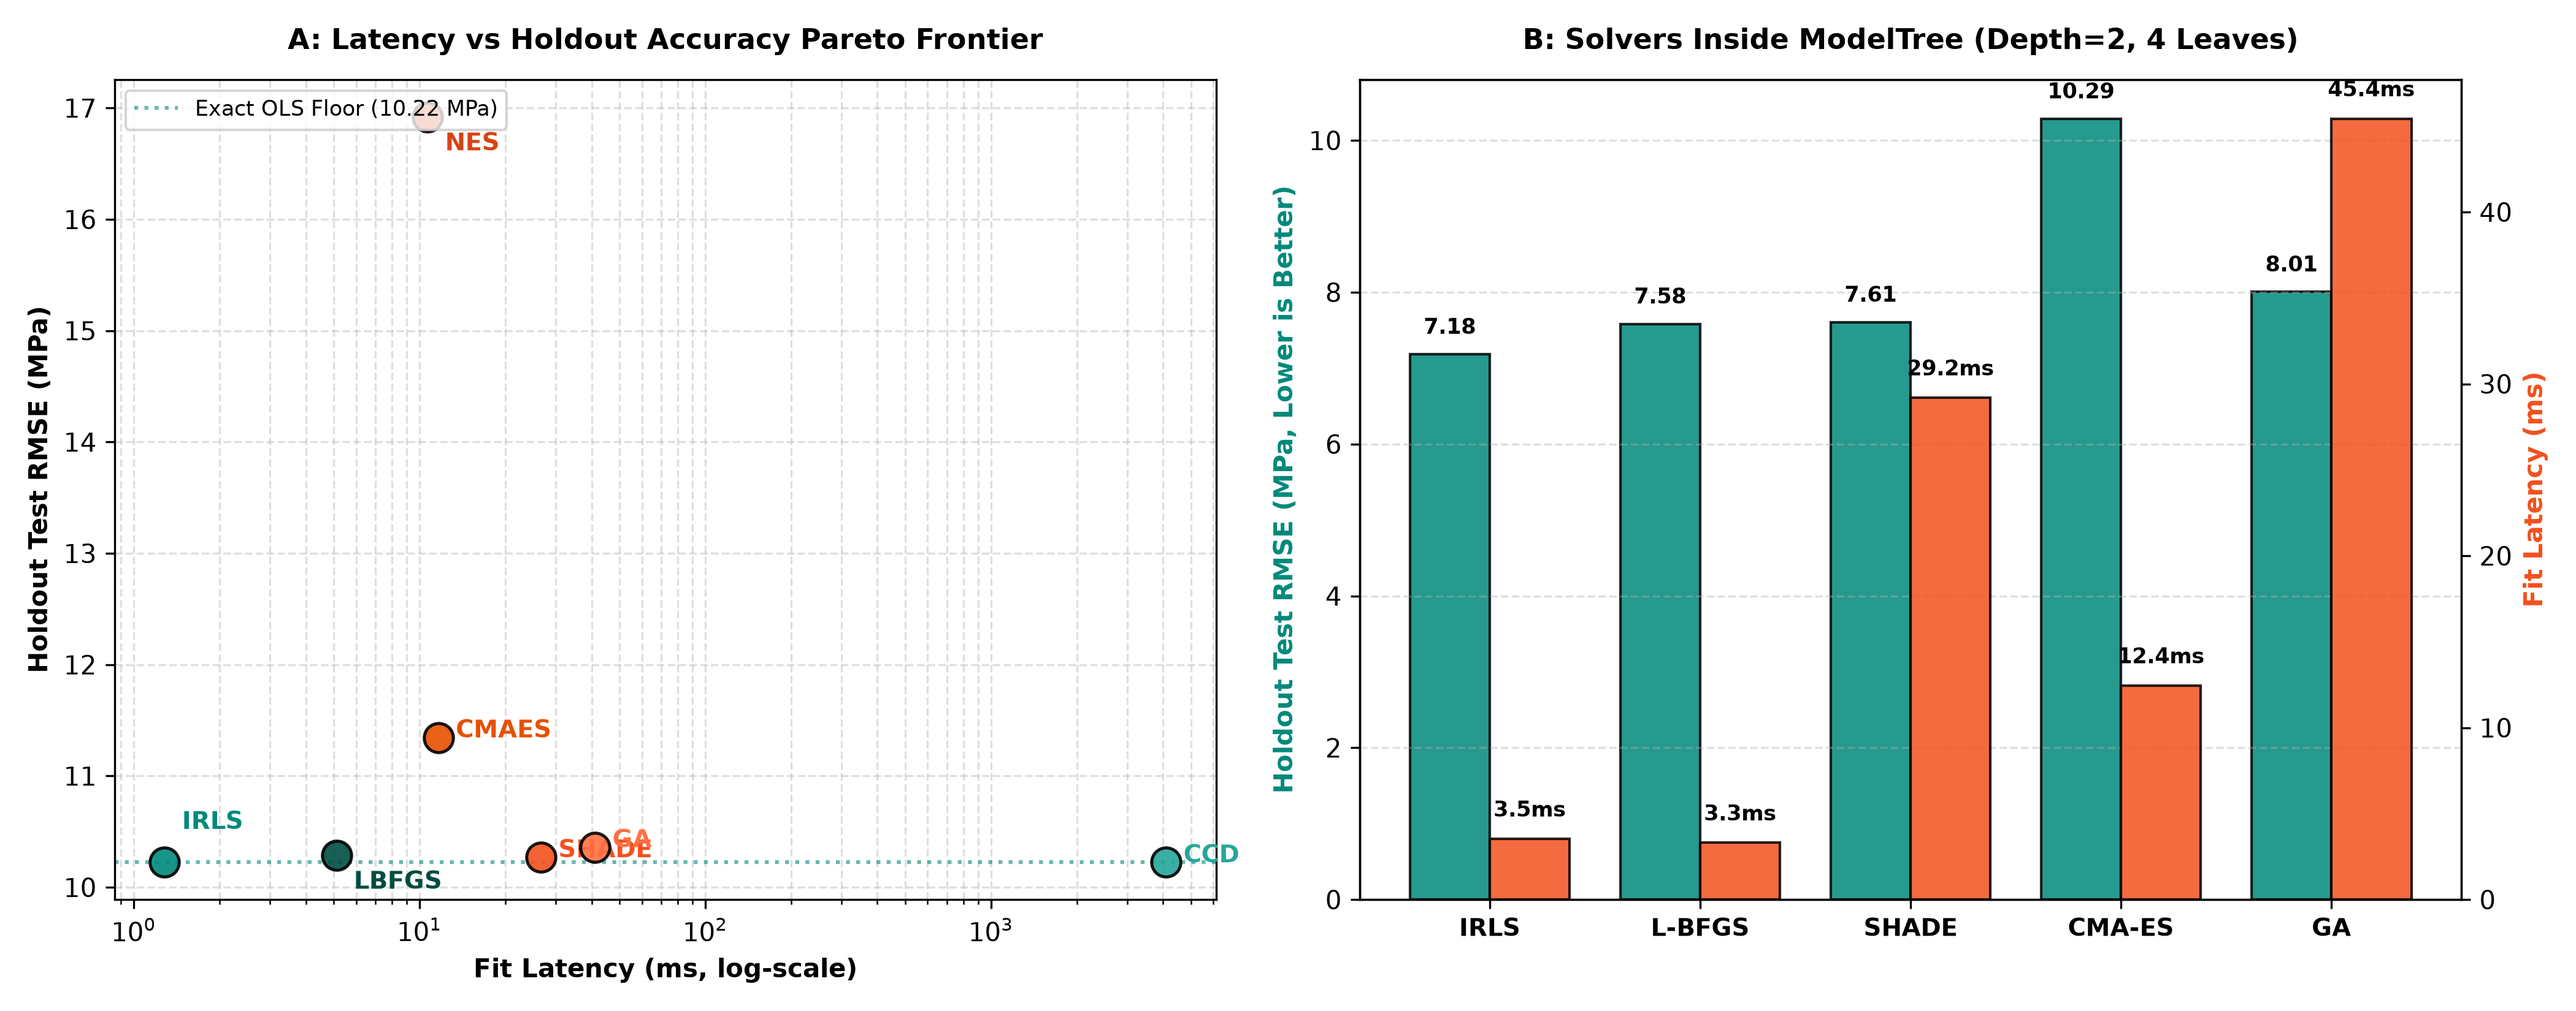
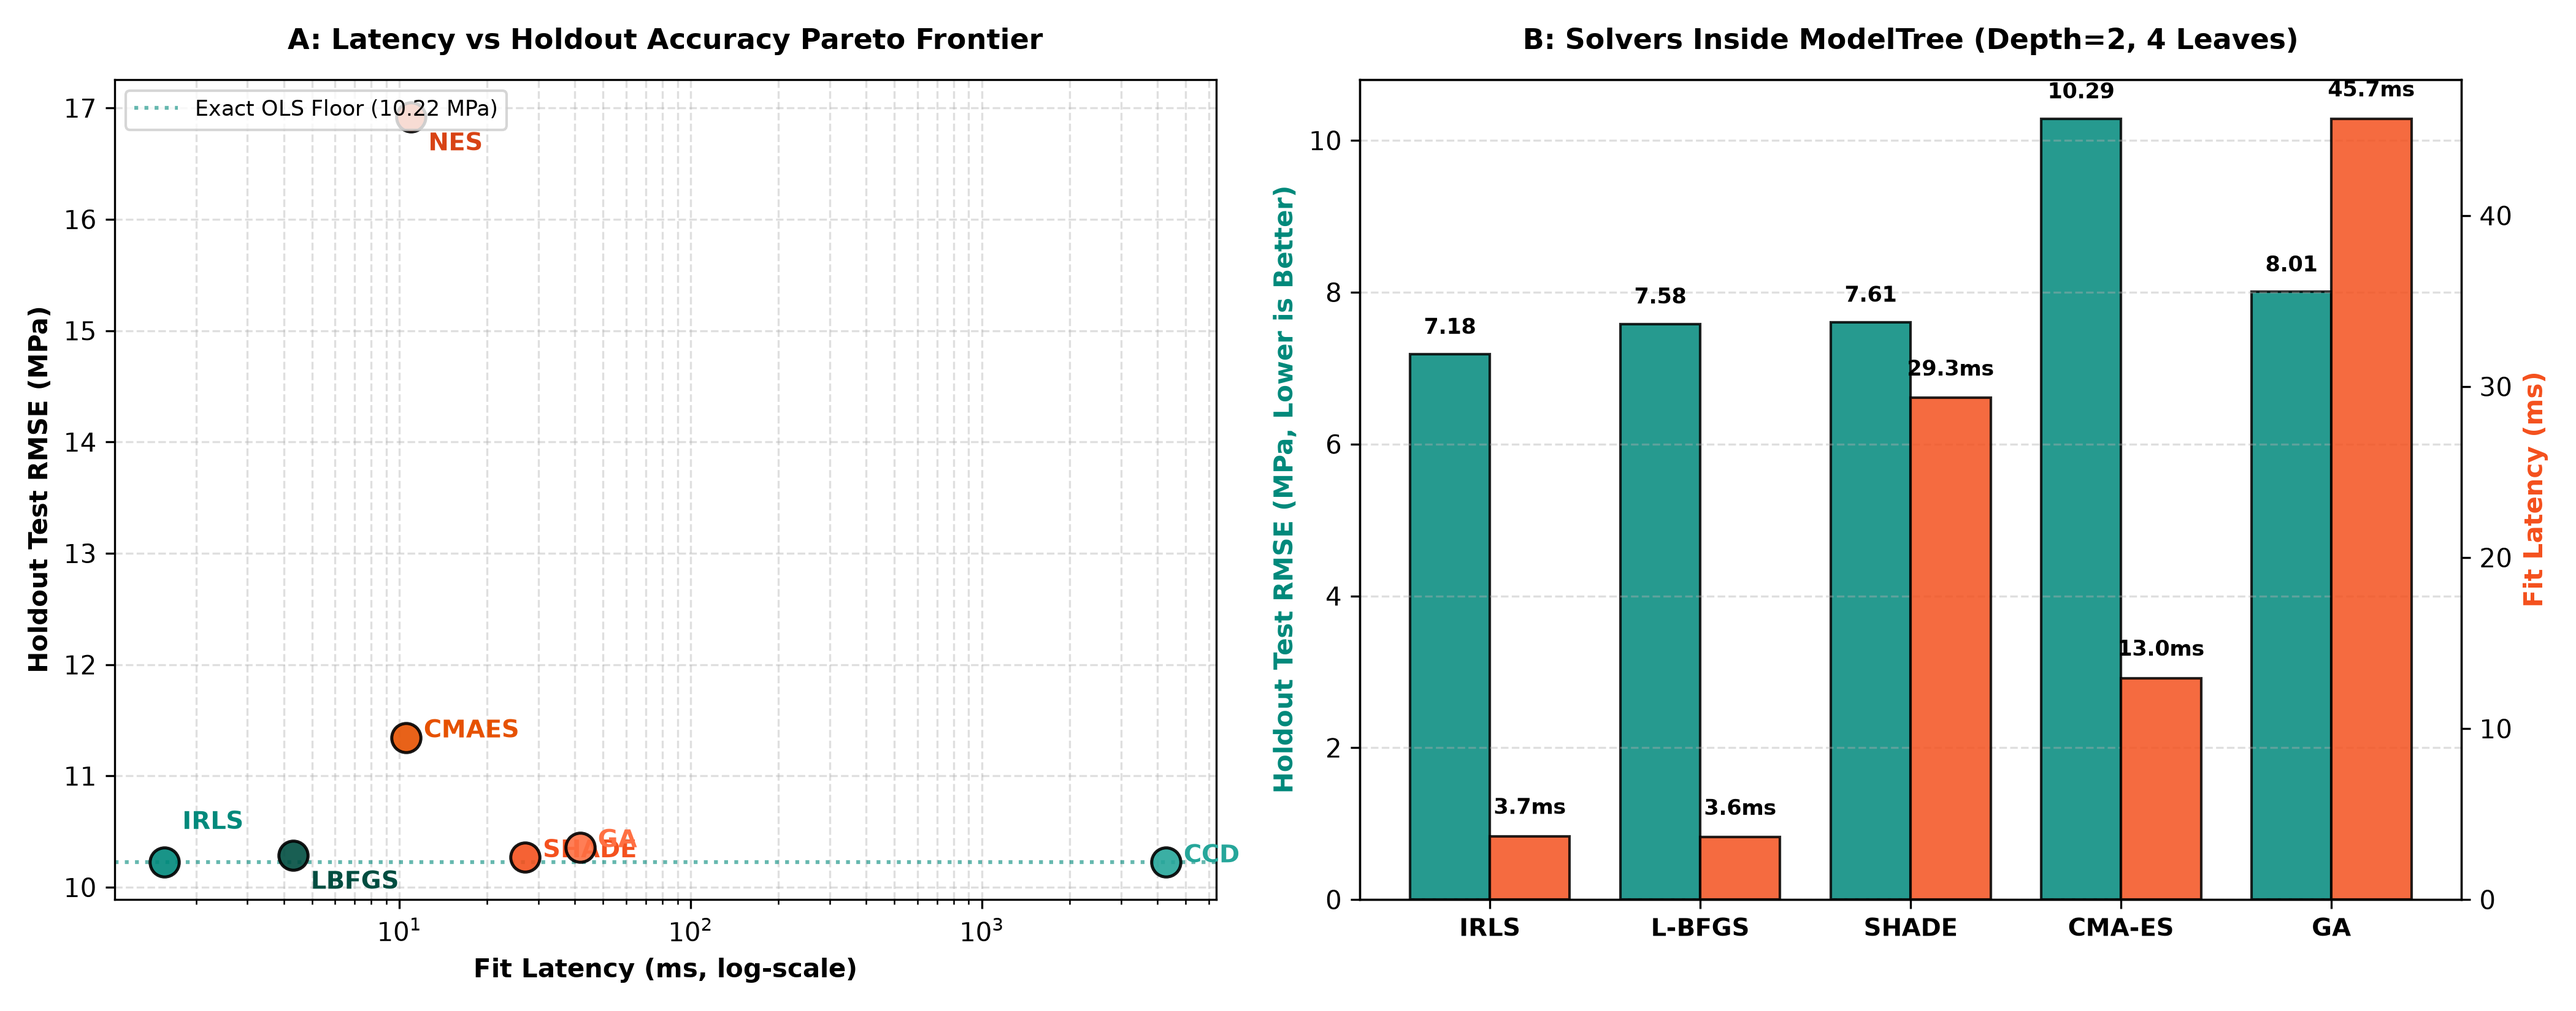
docs: reduce mermaid diagram height, add suite orchestrator, and link guides

diff --git a/docs/assets/custom.css b/docs/assets/custom.css
@@ -1,0 +1,18 @@
+/* Custom documentation stylesheet */
+
+/* Constrain Mermaid diagram height, enable horizontal scrolling if needed, and center */
+.mermaid {
+  text-align: center;
+  margin: 1.25rem 0;
+  overflow-x: auto;
+  overflow-y: hidden;
+}
+
+.mermaid svg {
+  max-height: 360px !important;
+  height: auto !important;
+  width: auto !important;
+  max-width: 100% !important;
+  display: block;
+  margin: 0 auto;
+}

diff --git a/examples/suites/run_all.py b/examples/suites/run_all.py
@@ -1,0 +1,87 @@
+"""Run all 11 mltreelib core benchmark suites.
+
+Executes each suite sequentially and reports status, latency, and assets generated.
+Usage:
+    uv run python examples/suites/run_all.py
+"""
+
+import os
+import sys
+import time
+import subprocess
+from pathlib import Path
+
+
+SUITES = [
+    ("Suite 1", "Core Tree Architecture", "core_tree_architecture.py"),
+    ("Suite 2", "Structural Constraints & Honesty", "constraints_and_honesty.py"),
+    ("Suite 3", "Missing Data Routing", "missing_routing_benchmark.py"),
+    ("Suite 4", "Distributional & Censored Leaves", "distributional_leaf_benchmarks.py"),
+    ("Suite 5", "Hierarchical Leaf Retrain", "stump_leaf_retrain.py"),
+    ("Suite 6", "Statistical & Metric Splitting", "statistical_and_metric_splitting.py"),
+    ("Suite 7", "Time Series Forecasting", "timeseries_additive_forecasting.py"),
+    ("Suite 8", "Unsupervised Trees & Anomalies", "unsupervised_trees.py"),
+    ("Suite 9", "Survival & Competing Risks", "survival_and_competing_risks.py"),
+    ("Suite 10", "Solvers & Optimizers", "solver_benchmarks.py"),
+    ("Suite 11", "Component & Factor Analysis", "component_benchmarks.py"),
+]
+
+
+def main():
+    root_dir = Path(__file__).resolve().parent.parent.parent
+    suites_dir = root_dir / "examples" / "suites"
+
+    print("=" * 80)
+    print("mltreelib Core Benchmark Suite Orchestrator")
+    print(f"Running 11 benchmark suites sequentially from {suites_dir}")
+    print("=" * 80)
+
+    results = []
+    t_start_total = time.perf_counter()
+
+    for suite_id, title, filename in SUITES:
+        script_path = suites_dir / filename
+        if not script_path.exists():
+            print(f"[MISSING] {suite_id}: {filename} not found!")
+            results.append((suite_id, title, "MISSING", 0.0))
+            continue
+
+        print(f"\n>>> Running {suite_id}: {title} ({filename})...")
+        t0 = time.perf_counter()
+        res = subprocess.run(
+            [sys.executable, str(script_path)],
+            cwd=str(root_dir),
+            capture_output=True,
+            text=True,
+        )
+        elapsed = time.perf_counter() - t0
+
+        if res.returncode == 0:
+            print(f"    [PASSED] in {elapsed:.2f}s")
+            results.append((suite_id, title, "PASSED", elapsed))
+        else:
+            print(f"    [FAILED] with exit code {res.returncode} in {elapsed:.2f}s")
+            print("--- STDERR ---")
+            print(res.stderr[-500:] if len(res.stderr) > 500 else res.stderr)
+            results.append((suite_id, title, "FAILED", elapsed))
+
+    total_time = time.perf_counter() - t_start_total
+
+    print("\n" + "=" * 80)
+    print("BENCHMARK SUITE EXECUTION SUMMARY")
+    print("=" * 80)
+    print(f"{'Suite':<10} | {'Title':<35} | {'Status':<8} | {'Time (s)':>10}")
+    print("-" * 80)
+    for suite_id, title, status, elapsed in results:
+        print(f"{suite_id:<10} | {title:<35} | {status:<8} | {elapsed:>10.2f}s")
+    print("-" * 80)
+    passed_count = sum(1 for _, _, s, _ in results if s == "PASSED")
+    print(f"Total: {passed_count}/{len(SUITES)} passed in {total_time:.2f}s")
+    print("=" * 80)
+
+    if passed_count < len(SUITES):
+        sys.exit(1)
+
+
+if __name__ == "__main__":
+    main()

diff --git a/docs/examples/piecewise-linear-model-trees-vs-gbdt.md b/docs/examples/piecewise-linear-model-trees-vs-gbdt.md
@@ -66,4 +66,9 @@ This experiment compares two leaf types at the same depth and support setting. A
 uv run python examples/real_tree_studies.py diamonds
 ```
 
+!!! tip "Deep-Dive Benchmark Suites"
+    - For detailed depth-vs-error benchmarks on Yeh Concrete demonstrating 49.9% error reduction over CART step functions at depth 1, see [Suite 1: Core Tree Architecture & Growth Knobs](core-tree-architecture.md).
+    - For dual monotone split and slope enforcement without gradient boosting step-staircasing, see [Suite 2: Structural Constraints & Honest Inference](constraints-and-honesty.md).
+    - For numerical solver benchmarks (Cholesky vs L-BFGS vs Evolutionary leaf optimizers), see [Suite 10: Solvers, Optimizers & Real-Data Tuning](solver-benchmarks.md).
+
 For the origin of model trees, see [Quinlan, Learning with Continuous Classes (1992)](https://www.cs.tufts.edu/~nr/cs257/archive/ross-quinlan/continuous.pdf). For a controlled missing-data check and a separate real explanation, see the [regression pathway](../guides/regression.md).

diff --git a/docs/examples/distributional-trees-tweedie-tobit.md b/docs/examples/distributional-trees-tweedie-tobit.md
@@ -70,4 +70,8 @@ A zero claim, a reading floored by a sensor and an event censored by study end r
 uv run python examples/real_tree_studies.py housing
 ```
 
+!!! tip "Deep-Dive Benchmark Suites"
+    - For formal log-likelihoods, inverse Mills ratio derivations, and 45.8% OLS attenuation correction across Gamma, Poisson, and Tobit censored leaves, see [Suite 4: Distributional & Censored Leaf Families](distributional-leaves.md).
+    - For 12 exotic statistical hypothesis tests, MMD, Energy Distance, and Wasserstein optimal transport splitting, see [Suite 6: Statistical, Metric & Oblique Splitting Criteria](statistical-and-metric-splitting.md).
+
 See the [split criteria example](../examples/distributional-split-criteria.md) for controlled cases and the [FLCHAIN survival pathway](../guides/survival.md) for censored follow-up. For a primary reference on Tweedie modeling, see [Dunn and Smyth (2005)](https://doi.org/10.1007/s11222-005-4070-y).

diff --git a/docs/examples/quinlan-m5-cubist-rust.md b/docs/examples/quinlan-m5-cubist-rust.md
@@ -57,4 +57,8 @@ Record the feature name, input unit, threshold, missing direction, leaf support 
 uv run python examples/real_tree_studies.py concrete
 ```
 
+!!! tip "Deep-Dive Benchmark Suites"
+    - For exact mathematical formulation of the two-control decoupling architecture and Chow structural break gating, see [Suite 1: Core Tree Architecture & Growth Knobs](core-tree-architecture.md).
+    - For sub-millisecond warm-start leaf retraining and micro-model routing down frozen tree topologies, see [Suite 5: Dynamic Leaf Retraining & Adaptation](hierarchical-retrain.md).
+
 See [Quinlan's M5 paper](https://www.cs.tufts.edu/~nr/cs257/archive/ross-quinlan/continuous.pdf), [Kuhn's Cubist vignette](https://cran.r-project.org/web/packages/Cubist/vignettes/cubist.html) and the [rules and neighbor adjustment example](../examples/rules-summary-knn.md).

diff --git a/docs/blog/zero-imputation-predictive-maintenance.md b/docs/blog/zero-imputation-predictive-maintenance.md
@@ -34,7 +34,7 @@ uv run python examples/predictive_maintenance.py
 In commercial fleet management, missing an air pressure system failure on the highway causes catastrophic delays, towing fees, and potential engine destruction. Conversely, sending a healthy truck to the depot for a quick pressure test incurs a minor mechanic inspection charge.
 
 ```mermaid
-flowchart TD
+flowchart LR
     A["Raw Fleet Telemetry (76,000 Trucks)\n170 Sensor Channels with 8.35% Missing Cells"] --> B["Native Missing-Routing ModelTree\nDirect NaN / None Ingestion in Pure Rust"]
     B --> C["Triage Threshold Optimizer\nargmin 10*FP(τ) + 500*FN(τ)"]
     C --> D{"Predicted Risk >= τ* ?"}

diff --git a/docs/examples/constraints-and-honesty.md b/docs/examples/constraints-and-honesty.md
@@ -20,7 +20,7 @@ Unconstrained tree algorithms greedily optimize in-sample loss functions. This f
 - **Honest Sample Splitting**: Partitions the training data into two disjoint subsamples: a **structure sample** ($S^{\text{tr}}$) used exclusively to evaluate split criteria, and an **estimation sample** ($S^{\text{est}}$) used exclusively to fit terminal leaf models.
 
 ```mermaid
-flowchart TD
+flowchart LR
     subgraph DataPartition["Sample-Split Honesty (Athey & Imbens / GRF)"]
         direction TB
         Raw["Training Sample (X, y)"] --> Split{"Bernoulli Subsample\n(honesty_fraction=0.5)"}

diff --git a/docs/blog/segregate-first-two-stage-survival-trees.md b/docs/blog/segregate-first-two-stage-survival-trees.md
@@ -35,7 +35,7 @@ In enterprise retention, credit facilities, and medical trials, entities (custom
 When standard survival trees split directly on duration outcomes using log-rank statistics, they fall into the **censoring trap**:
 
 ```mermaid
-flowchart TD
+flowchart LR
     subgraph Trap["Standard Survival Tree Pitfall"]
         A["All Longitudinal Records [X, T, E]"] --> B{"Log-Rank Split Criterion\nMaximizes Event Separation"}
         B --> C["Trivial Censoring Splits:\nIsolates recent sign-ups from mature accounts"]

diff --git a/docs/examples/missing-data-routing.md b/docs/examples/missing-data-routing.md
@@ -21,7 +21,7 @@ Standard tabular workflows apply global mean, median, or MICE imputation before 
 - **NA-Indicator Linear Leaves**: Linear leaves fit dedicated indicator coefficients $\beta_{\text{NA}, j}$ for absent features, preserving local linear slopes for observed predictors.
 
 ```mermaid
-flowchart TD
+flowchart LR
     A["Incoming Feature Vector\n[x1, x2, ..., xk]"] --> B{"Is Primary Split Feature\nx_j Observed?"}
     
     B -- "Observed" --> C{"Predicate Test:\nx_j <= Threshold?"}

diff --git a/docs/blog/prescriptive-inventory-replenishment.md b/docs/blog/prescriptive-inventory-replenishment.md
@@ -52,7 +52,7 @@ $$
 For specialty and high-margin retail goods, $s_k \gg h_k$, yielding critical fractiles of $\tau_k \in [0.85, 0.98]$. Ordering the conditional mean $\mathbb{E}[Y_k]$ guarantees systematic stockouts on exactly the products that drive profitability.
 
 ```mermaid
-flowchart TD
+flowchart LR
     subgraph Trap["The Point Forecast Heuristic"]
         A["Standard Regression / GBDT"] --> B["Point Forecast: Mean E[Y_k]"]
         B --> C{"Shared Capacity Exceeded?"}

diff --git a/docs/examples/solver-benchmarks.md b/docs/examples/solver-benchmarks.md
@@ -35,7 +35,7 @@ In standard model trees, evaluating complex optimization problems at every candi
 All seven choices apply to Gaussian linear leaves. Supported non-Gaussian linear GLMs use IRLS or L-BFGS.
 
 ```mermaid
-flowchart TD
+flowchart LR
     Data["Candidate Data in Leaf Node\n[X, y]"] --> Fam{"Is the loss smooth\nand convex?"}
 
     Fam -- "Yes: Gaussian / Ridge" --> S1["irls (Cholesky / faer)\nExact closed-form solution\nLatency: ~1.28 ms"]

diff --git a/docs/examples/hierarchical-retrain.md b/docs/examples/hierarchical-retrain.md
@@ -13,7 +13,7 @@ Script: [`examples/suites/stump_leaf_retrain.py`](https://github.com/jkapila/mlt
 ## 1. Architectural Mechanics: Frozen Partitions vs In-Place Solvers
 
 ```mermaid
-flowchart TD
+flowchart LR
     subgraph Phase1["Phase 1: Macro-Topology Discovery (Expensive)"]
         direction TB
         HistoricalData["Historical Macro Dataset\n(Cohorts, Demographics, Seasons)"] --> GreedySearch["Greedy Partition Search\nO(K * N log N)"]
